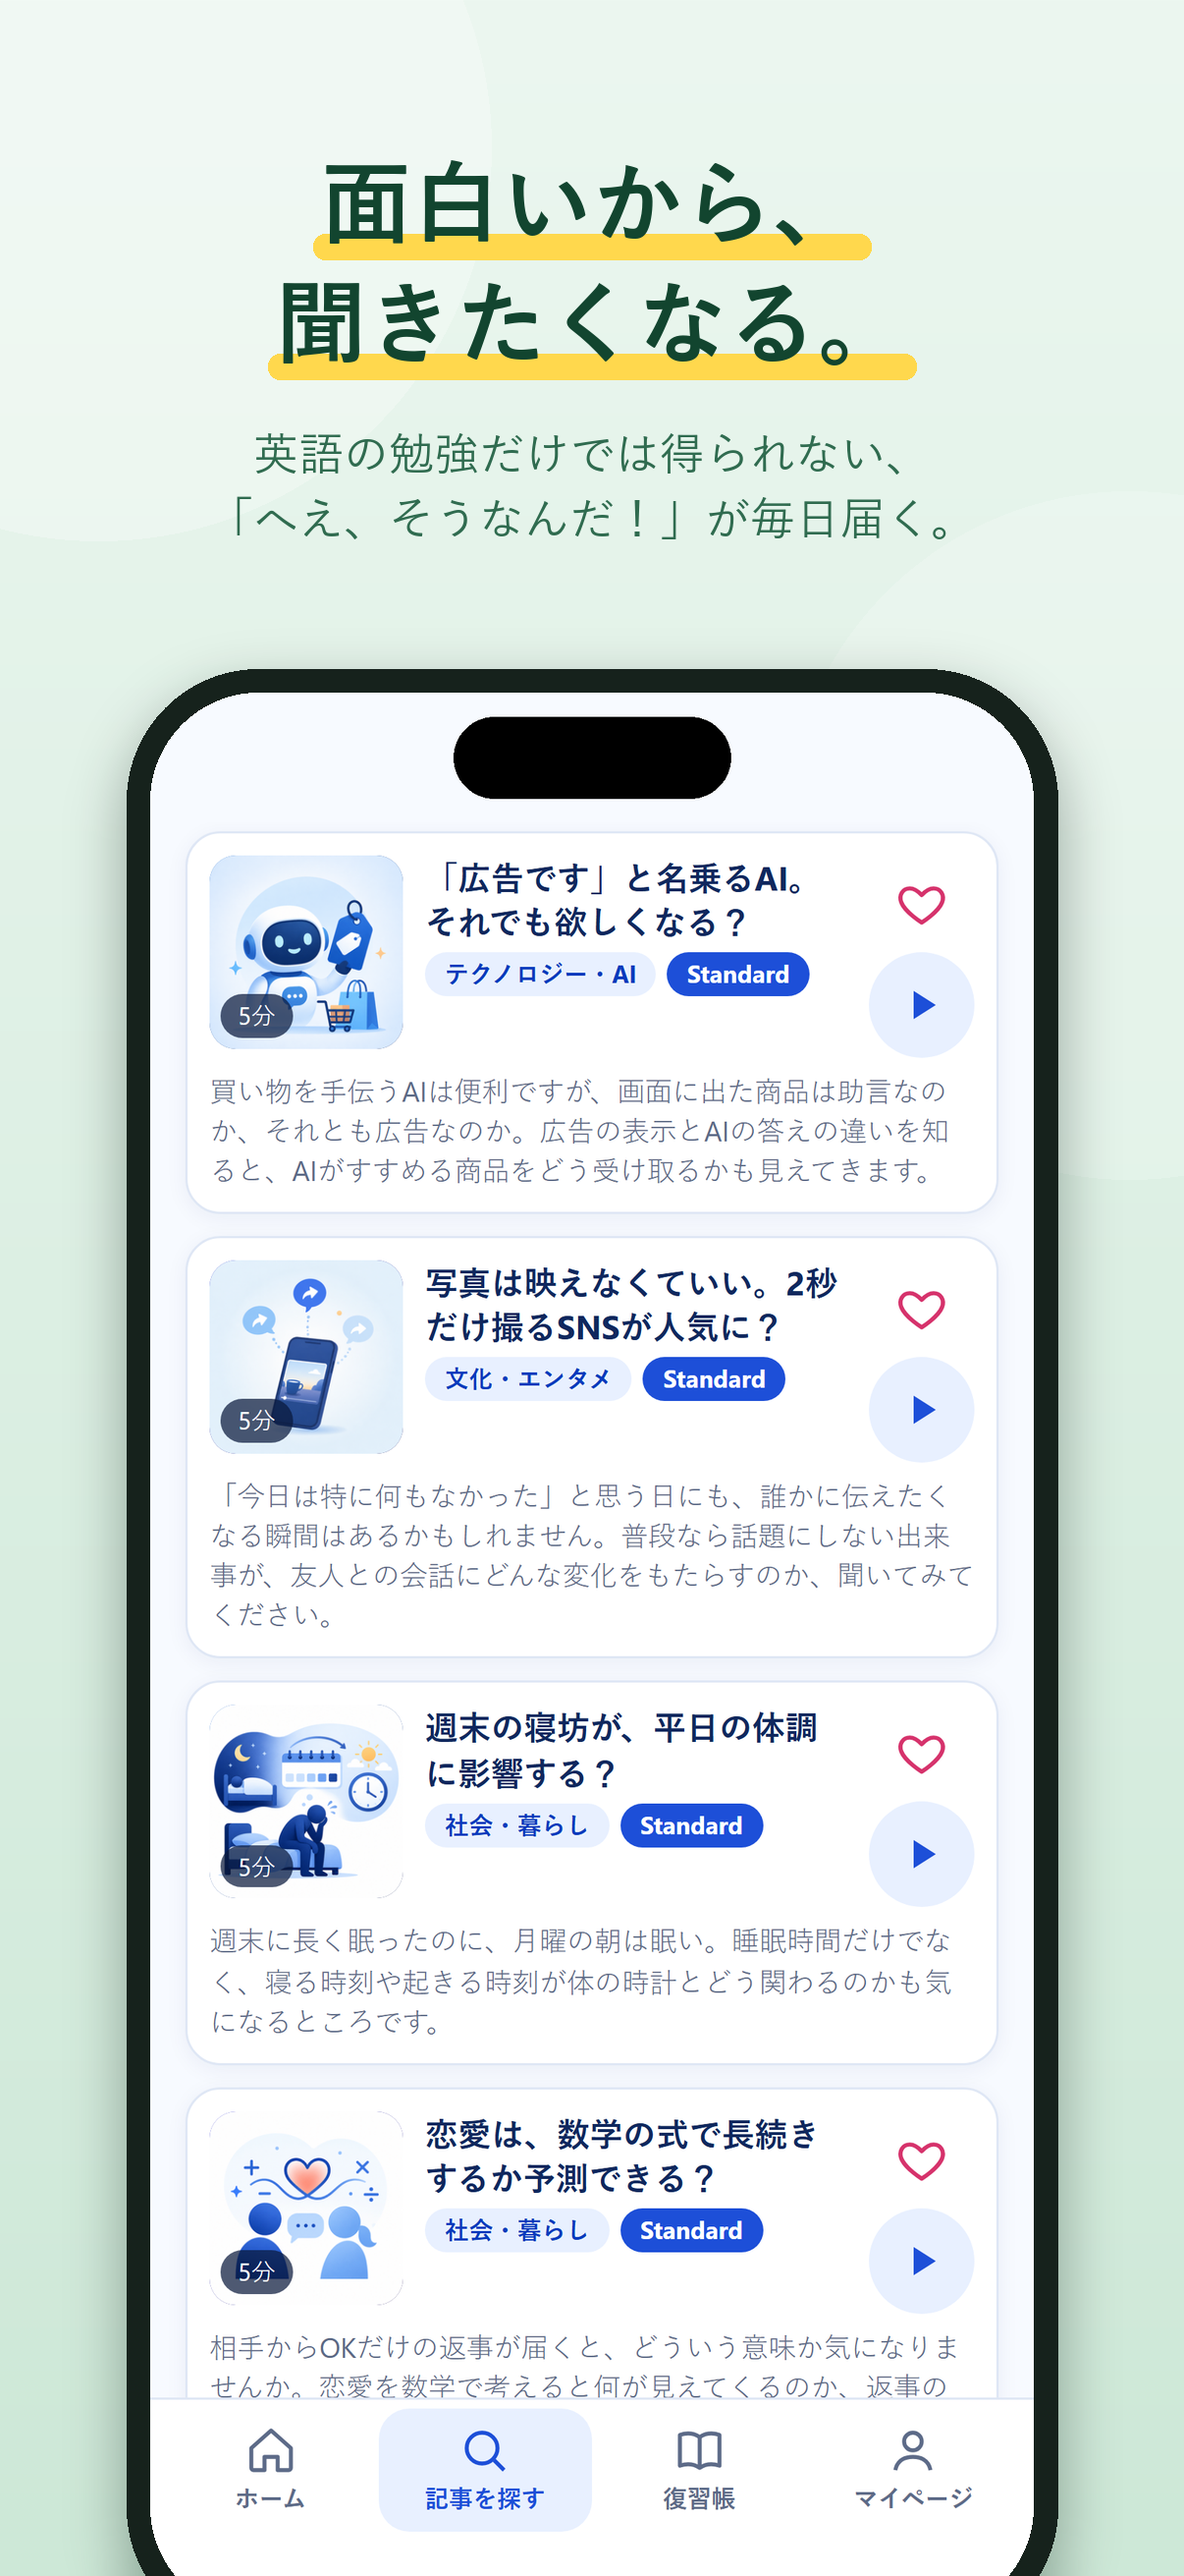
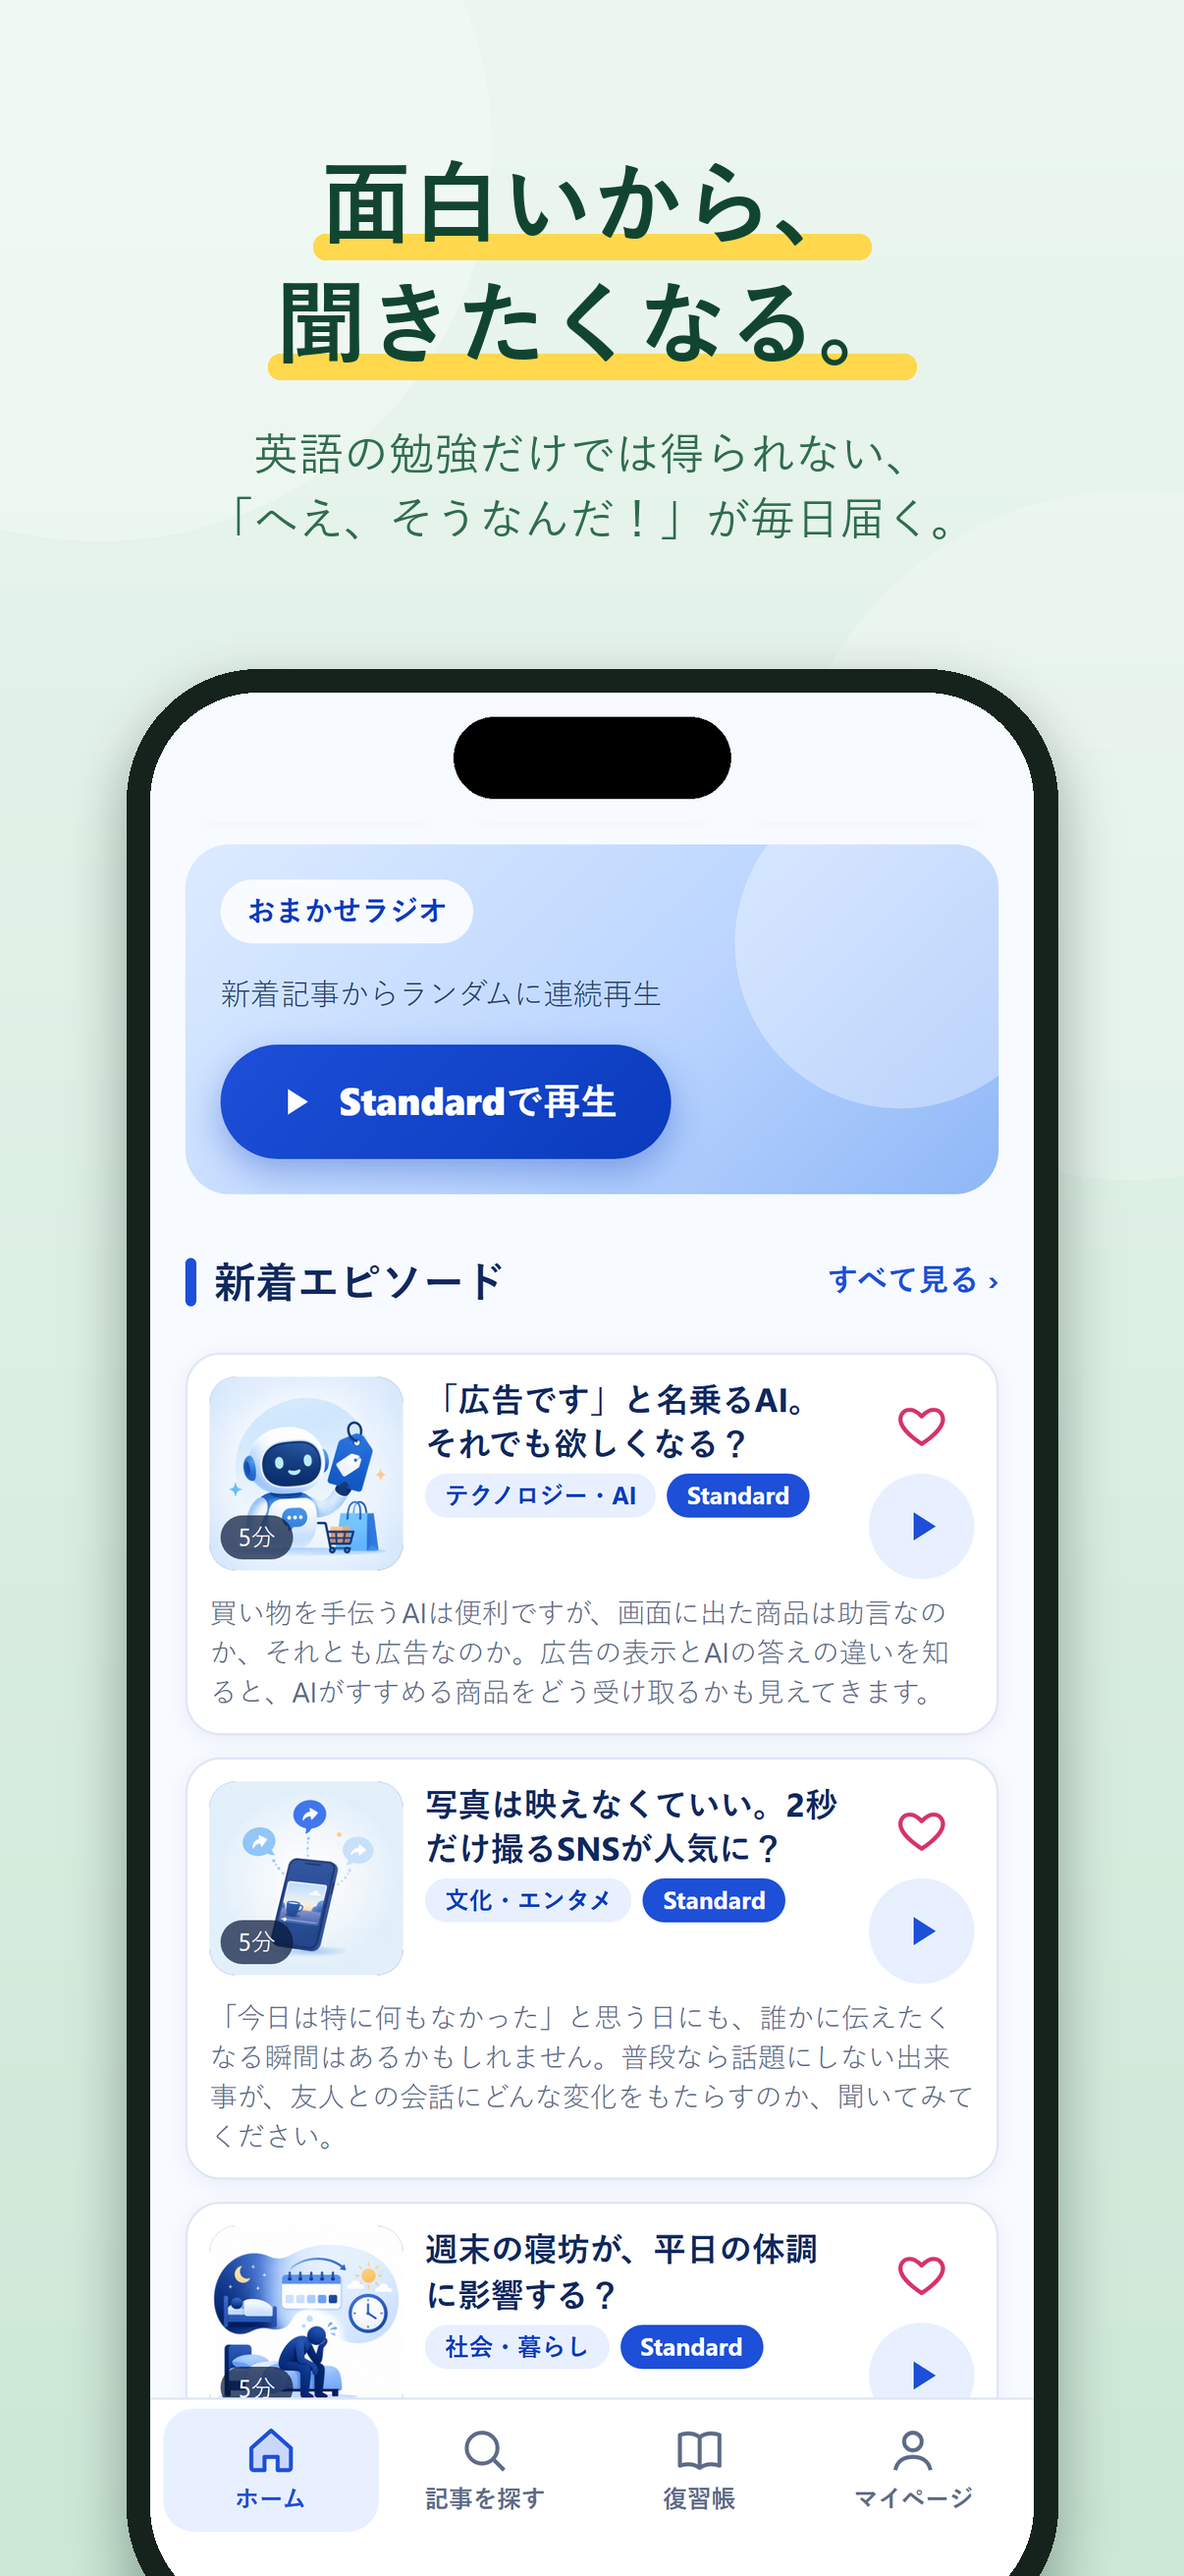
public sync from private c8fe64b7bf78
Private-Source: c8fe64b7bf78cdefcc0c16b0d1eae3899aba4aaf

Changed region(s): [[0.1534, 0.3089, 0.859, 0.9886]]

diff --git a/user_test/appstore_screenshots_review_01/index.html b/user_test/appstore_screenshots_review_01/index.html
@@ -1,6 +1,6 @@
 <!doctype html><html lang="ja"><head><meta name="robots" content="noindex,nofollow"><meta name="eigo-radio-dev-page" content="v1" data-purpose="ui_verify"><meta charset="utf-8"><meta name="viewport" content="width=device-width,initial-scale=1"><title>App Store掲載画像 レビュー(開発用)</title>
 <style>body{font-family:system-ui,"Yu Gothic",sans-serif;background:#f4f7f5;margin:16px;color:#14452f}h1{font-size:20px}.row{display:flex;gap:12px;overflow-x:auto;padding:8px 0}figure{margin:0;flex:0 0 auto;width:402px}figcaption{font-size:13px;line-height:1.5}.st{color:#b00;font-weight:bold}.nt{color:#444}.small img{margin-right:8px;border:1px solid #cdd}img{height:auto}</style></head><body><div id="eigo-radio-dev-banner" style="background:#fff3cd;border:1px solid #e0c36a;padding:6px 10px;font-size:.85rem;margin:0 0 6px;color:#222">開発・Trial用ページです(Production判断用ではありません)</div>
-<h1>App Store掲載用スクリーンショット(レビュー用・最終承認前・開発用) 版04(2026-11-28)</h1>
-<p>6枚(6枚目は案A・案Bの2案)。1206x2622 px・PNG・アルファなし(Apple「iPhone with Dynamic Island (medium display)」の必須サイズ)。撮影元=アプリ同梱Web層の最新版(Web build b7bffa21ca20)+iOS会員UIの再現(Playwright)。実機・シミュレーター撮影ではありません。<br>
-<b>ご確認いただきたいこと</b>: (1) 6枚目は案Aと案Bのどちらにするか(案Bを推奨) (2) 3枚目は、題名・サムネイルを「夫が妻の姓を選ぶとき、それぞれの声」(Family Y2の新構成版)にした画像です。この記事を実際の記事一覧へ掲載する(別のご承認)までは、ストアに出せません。 App Store Connectへの登録・提出はまだ行っていません。</p>
-<h2>縮小表示(150px)</h2><div class="small"><img src="appstore_01.png" width="150" alt="1枚目 面白さ"><img src="appstore_02.png" width="150" alt="2枚目 わかりやすさ"><img src="appstore_03.png" width="150" alt="3枚目 多彩さ(Family Y2「夫が妻の姓を選ぶとき、それぞれの声」版)"><img src="appstore_04.png" width="150" alt="4枚目 日常での使いやすさ"><img src="appstore_05.png" width="150" alt="5枚目 学習機能"><img src="appstore_06.png" width="150" alt="6枚目 案A 初回の無料体験ご案内画面"></div><h2>端末相当サイズ(402px)</h2><div class="row"><figure><img src="appstore_01.png" width="402" alt="1枚目 面白さ"><figcaption><b>1枚目 面白さ</b><br>記事一覧(指定の4記事を指定の順に表示)<br><span class="st">提出できる状態(最終承認待ち)</span></figcaption></figure><figure><img src="appstore_02.png" width="402" alt="2枚目 わかりやすさ"><figcaption><b>2枚目 わかりやすさ</b><br>SNS記事 Standard 聴く(Preview・英文の再生中ハイライト・日本語訳)<br><span class="st">提出できる状態(最終承認待ち)</span></figcaption></figure><figure><img src="appstore_03.png" width="402" alt="3枚目 多彩さ(Family Y2「夫が妻の姓を選ぶとき、それぞれの声」版)"><figcaption><b>3枚目 多彩さ(Family Y2「夫が妻の姓を選ぶとき、それぞれの声」版)</b><br>記事一覧(選挙→走れメロス→夫が妻の姓を選ぶとき→ByUs)。3番目はまだ一覧にない新しい記事を撮影用に差し込んだ画面です<br><span class="st">画像は完成。ただし提出には条件あり</span><br><span class="nt">提出する前の条件: 「夫が妻の姓を選ぶとき、それぞれの声」が実際のアプリの記事一覧に載っていること(まだ載っていません。掲載はあなたの承認待ちです)。掲載後に、実際の一覧と題名・サムネイル・並びが一致するか確認し、違えば実際の一覧から撮り直して差し替えます。</span></figcaption></figure><figure><img src="appstore_04.png" width="402" alt="4枚目 日常での使いやすさ"><figcaption><b>4枚目 日常での使いやすさ</b><br>再生中画面(片づけの合格点 / Standard)<br><span class="st">条件付き: 提出前にバックグラウンド再生の実機確認が必要</span><br><span class="nt">「バックグラウンド再生」は実装済み(Info.plistの設定)。実機での確認は統合実機検証の項目(A02・B06・No.50)に入っており、検証が終わるまで未確認です。</span></figcaption></figure><figure><img src="appstore_05.png" width="402" alt="5枚目 学習機能"><figcaption><b>5枚目 学習機能</b><br>SNS記事 Advanced 学ぶ / make the cut<br><span class="st">提出できる状態(最終承認待ち)</span></figcaption></figure><figure><img src="appstore_06.png" width="402" alt="6枚目 案A 初回の無料体験ご案内画面"><figcaption><b>6枚目 案A 初回の無料体験ご案内画面</b><br>実装済みの初回案内画面(決済不要・自動課金なし・毎日1記事)。利用状況送信の同意文が同じ画面に入ります<br><span class="st">案A・案Bのどちらか1つを選んでください(どちらも提出できる状態)</span><br><span class="nt">推奨は案B(同意文が画像に入らず、無料体験の説明だけが伝わるため)。決めるのはあなたです。</span></figcaption></figure><figure><img src="appstore_06_ALT.png" width="402" alt="6枚目 案B マイページの「無料体験中」カード"><figcaption><b>6枚目 案B マイページの「無料体験中」カード</b><br>実装済みマイページの利用プラン表示(体験中・自動で有料会員にならない)<br><span class="st">案A・案Bのどちらか1つを選んでください(どちらも提出できる状態)</span><br><span class="nt">推奨は案B(上と同じ)。</span></figcaption></figure></div></body></html>
+<h1>App Store掲載用スクリーンショット(レビュー用・最終承認前・開発用) 版05 最終修正版(2026-11-28)</h1>
+<p>ご指示(最終修正指示)に沿った6枚です。1206x2622 px・PNG・アルファなし(Apple「iPhone with Dynamic Island (medium display)」の必須サイズ)。撮影元=アプリ同梱Web層の最新版(文法表示の撤去後 build b4cee31f2e88)+iOS会員UIの再現(Playwright)。実機・シミュレーター撮影ではありません。<br>
+<b>ご確認いただきたいこと</b>: 画像の最終承認。3枚目は「意見・ディベート=1件」の画像で、提出前に実際の公開記事数との一致確認が必要です(条件は3枚目の下に記載)。 App Store Connectへの登録・提出はまだ行っていません。</p>
+<h2>縮小表示(150px)</h2><div class="small"><img src="appstore_01.png" width="150" alt="1枚目 面白さ(修正)"><img src="appstore_02.png" width="150" alt="2枚目 わかりやすさ・選べる難易度(修正)"><img src="appstore_03.png" width="150" alt="3枚目 コンテンツの多彩さ(修正)"><img src="appstore_04.png" width="150" alt="4枚目 日常での使いやすさ(現行案維持)"><img src="appstore_05.png" width="150" alt="5枚目 学習機能(現行案維持)"><img src="appstore_06.png" width="150" alt="6枚目 無料体験(B案を正式採用)"></div><h2>端末相当サイズ(402px)</h2><div class="row"><figure><img src="appstore_01.png" width="402" alt="1枚目 面白さ(修正)"><figcaption><b>1枚目 面白さ(修正)</b><br>ホーム画面。「おまかせラジオ」から表示し、新着エピソードを3件(指定順。3件目は途中まで)。再生中ミニプレイヤーなし<br><span class="st">提出できる状態(最終承認待ち)</span></figcaption></figure><figure><img src="appstore_02.png" width="402" alt="2枚目 わかりやすさ・選べる難易度(修正)"><figcaption><b>2枚目 わかりやすさ・選べる難易度(修正)</b><br>「選挙に勝った！」Standard。画面上部にStandard/Advanced切替(Standard選択中)、Preview→本文、再生中の英文ハイライトと日本語訳<br><span class="st">提出できる状態(最終承認待ち)</span><br><span class="nt">編集で省略した部分: 「聴く／学ぶ」切替・「始めから聞く」・オフライン用ダウンロード・Welcome/Topic/日本語タイトルの各ブロック・記事タイトル部分(画面を上へスクロール)。実在する部品を非表示にしただけで、描き足し・文字の書換えはありません。</span></figcaption></figure><figure><img src="appstore_03.png" width="402" alt="3枚目 コンテンツの多彩さ(修正)"><figcaption><b>3枚目 コンテンツの多彩さ(修正)</b><br>「記事を探す」。検索欄からミステリー・ホラーまで全8ジャンル。意見・ディベートを「準備中」→「1件」<br><span class="st">画像は完成。提出には条件あり(下記)</span><br><span class="nt">提出条件: 審査提出前に、「意見・ディベート」の実際の公開記事数が1件以上で、この画像(意見・ディベート=1件、すべての記事=11件)と一致していること。現在の実際の公開記事は10件で「意見・ディベート」は準備中です(Family Y2の記事を公開した時点で画像と一致します)。 「記事を探す」の見出しは、全ジャンルを見せるため画面外(省略)。</span></figcaption></figure><figure><img src="appstore_04.png" width="402" alt="4枚目 日常での使いやすさ(現行案維持)"><figcaption><b>4枚目 日常での使いやすさ(現行案維持)</b><br>再生中画面(片づけの合格点 / Standard)<br><span class="st">条件付き: バックグラウンド再生の実機確認(統合実機検証 A02)</span><br><span class="nt">「バックグラウンド再生」は実装済み。実機で確認済みと言える記録は見つかりませんでした。統合実機検証の項目(A02・B06・No.50)で確認します。</span></figcaption></figure><figure><img src="appstore_05.png" width="402" alt="5枚目 学習機能(現行案維持)"><figcaption><b>5枚目 学習機能(現行案維持)</b><br>SNS記事 Advanced 学ぶ / make the cut<br><span class="st">提出できる状態(最終承認待ち)</span></figcaption></figure><figure><img src="appstore_06.png" width="402" alt="6枚目 無料体験(B案を正式採用)"><figcaption><b>6枚目 無料体験(B案を正式採用)</b><br>マイページの「無料体験中」カード(体験中・自動で有料会員にならない)<br><span class="st">提出できる状態(最終承認待ち)</span><br><span class="nt">案A(初回案内画面)は提出候補から外しました(記録は残っています)。</span></figcaption></figure></div></body></html>
